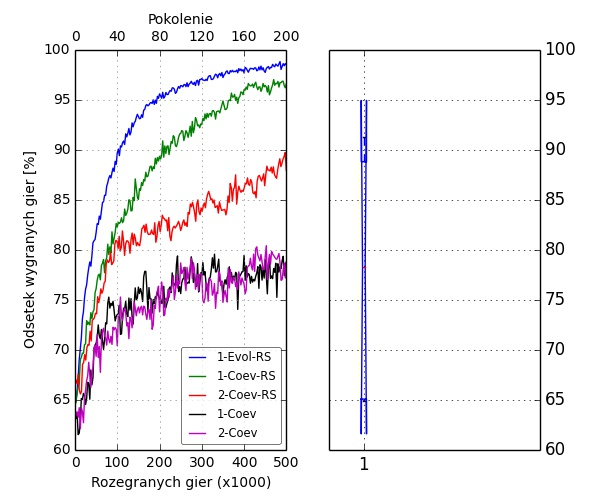
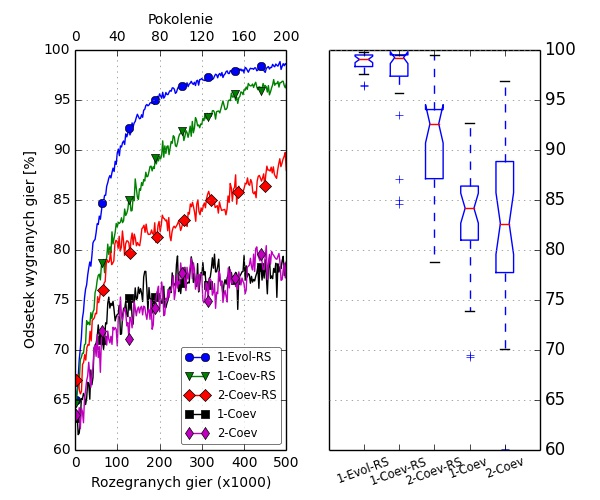
Compplete

diff --git a/wizualizacja.py b/wizualizacja.py
@@ -2,8 +2,9 @@
 # -*- coding: utf-8 -*-
 import matplotlib.pyplot as plt
 import csv
+import numpy
 
-box_list = []
+pudelkowe = []
 
 def rysowanie(nazwa, styl):
     	with open(nazwa) as csvfile:
@@ -11,23 +12,25 @@ def rysowanie(nazwa, styl):
 		next(csvreader)
 		effort = []
 		run = []
+		
 		for row in csvreader:
-			#print row[2]
 			effort.append(float(row[1])/1000)
 			suma=0
 			for index in range(len(row)):
 				if index>1:
-					#print row[index]
 					suma+=float(row[index])
 			suma/=len(row)-2
 			run.append(suma*100)
-			#print suma
-		box_list.append(suma*100)
-	#print effort
-	#print run
-	
+		
+		wiersz = []
+		for index in range(len(row)):
+		    if index>1:
+		      wiersz.append(float(row[index]))
+		      
+		pudelkowe.append(wiersz)	 
+			
 
-	plt.plot(effort,run, styl)
+	plt.plot(effort,run, styl, markevery=25)
 	
 
 def main():
@@ -37,11 +40,11 @@ def main():
 	
 	wyk1 = plt.subplot(121)
 	
-        rysowanie('rsel.csv', 'b')
-        rysowanie('cel-rs.csv', 'g')
-        rysowanie('2cel-rs.csv', 'r')
-        rysowanie('cel.csv', 'k')
-        rysowanie('2cel.csv', 'm')  
+        rysowanie('rsel.csv', '-bo')
+        rysowanie('cel-rs.csv', '-gv')
+        rysowanie('2cel-rs.csv', '-rD')
+        rysowanie('cel.csv', '-ks')
+        rysowanie('2cel.csv', '-md')  
         
         plt.grid(linewidth=0.5, color='grey')
         plt.axis((0,500,60,100), size="small")
@@ -64,14 +67,20 @@ def main():
         
 	names_list=['1-Evol-RS','1-Coev-RS','2-Coev-RS','1-Coev','2-Coev']
 	
-	plt.subplot(122)
-	plt.boxplot(box_list, notch=True, labels=names_list, showmeans=True, meanprops=dict(marker='o'))
+	wyk3 = plt.subplot(122)
+	plt.boxplot(pudelkowe,True,'b+')
+        wyk3.tick_params(labelsize="small")
+        plt.xticks(range(1,6),names_list,rotation=20,size="x-small")
         frame = plt.gca()
-        plt.grid()
         frame.axes.get_yaxis().set_visible(False)
         plt.twinx()
-        plt.grid()
-        plt.axis([0,6,60,100])
+        plt.grid(linewidth=0.5, color='grey')
+        plt.axis([0,6,60,100], size="small")
+        
+        i = 1
+        for k in pudelkowe:
+            plt.scatter(i,reduce(lambda x, y: x + y, k) / len(k))
+            i += 1
 	
 	
 	plt.savefig('myplot.jpg')
